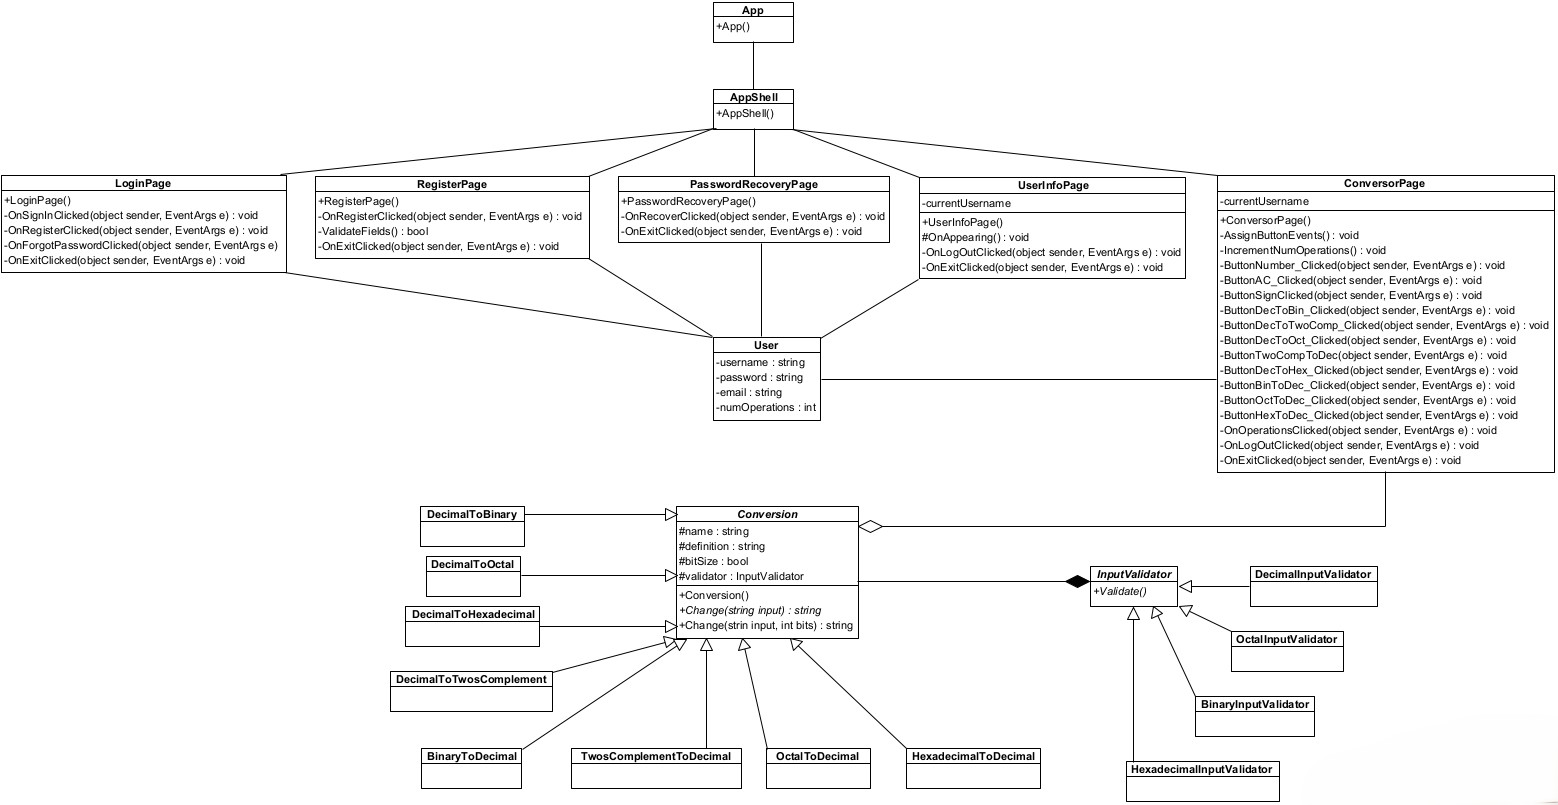
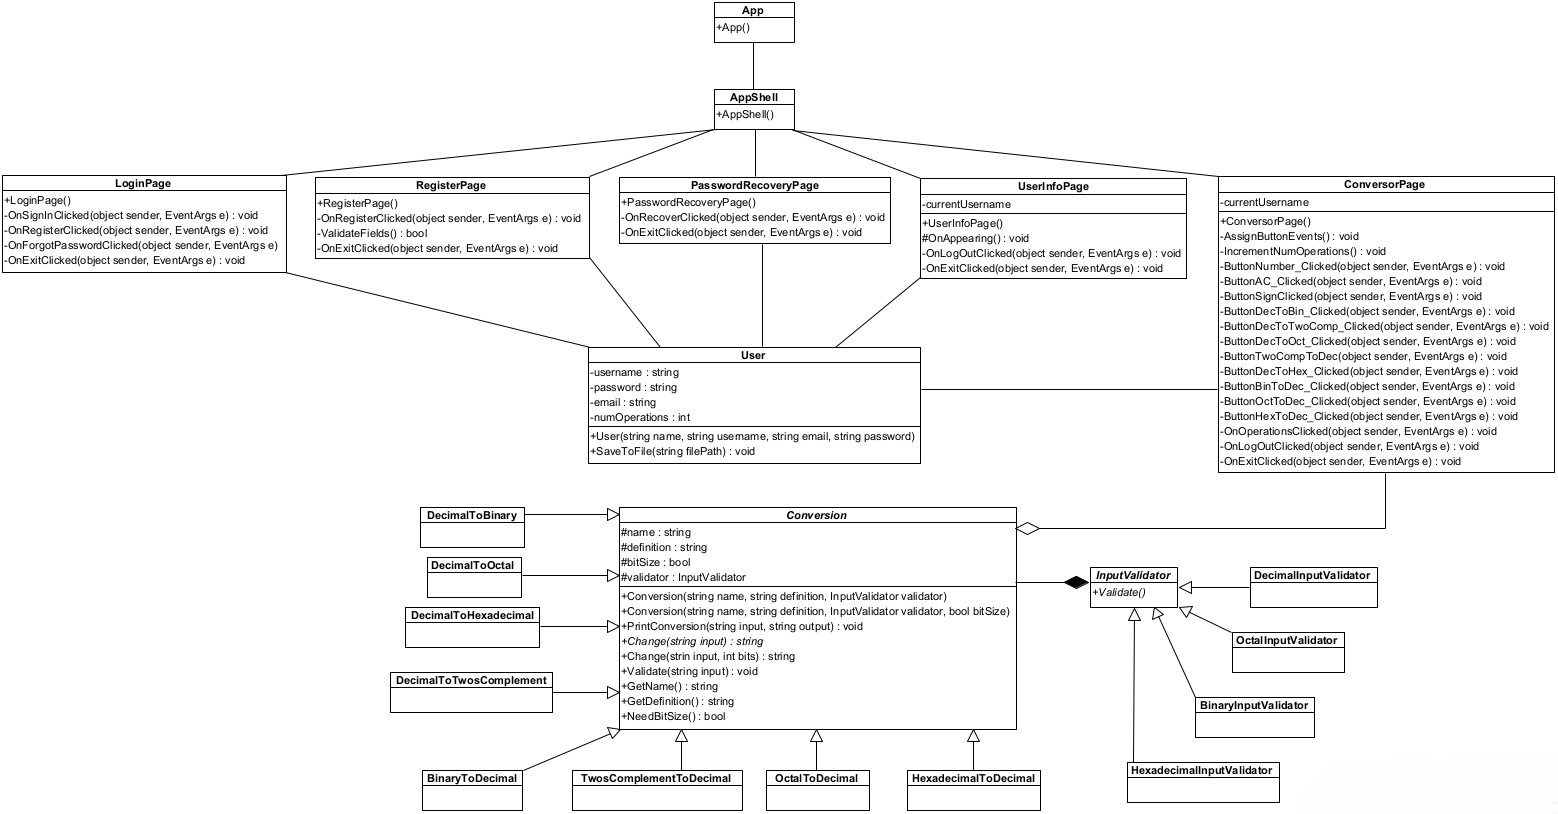
README

diff --git a/README.md b/README.md
@@ -1,5 +1,3 @@
-# oop_pw2_ext_2425
-This repository is the base structure for Practice 2 of the extraordinary session of Object-Oriented Programming.
 **UNIVERSIDAD FRANCISCO DE VITORIA**
 
 **ESCUELA POLITÉCNICA SUPERIOR**
@@ -44,60 +42,109 @@ Finally, the report concludes with a brief reflection on the development experie
 
 The application architecture is organised into three distinct layers, each with a specific responsibility:
 
-- **UI Layer:** XAML pages (`LoginPage.xaml`, `RegisterPage.xaml`, `PasswordRecoveryPage.xaml`, `ConversorPage.xaml` and `UserInfoPage.xaml`) responsible for user interaction.
-- **Logic Layer:** Implements the core functionality of the application through classes located in the `Guided_Practice` directory, along with code-behind files (`*.xaml.cs`).
-- **Persistence Layer:** CSV file (`users.csv`), which holds user credentials and operation counts.
+- **UI Layer:** 
+  This layer is responsible for all user interactions and is implemented using XAML pages (`LoginPage.xaml`, `RegisterPage.xaml`, `PasswordRecoveryPage.xaml`, `ConversorPage.xaml`, and `UserInfoPage.xaml`). Each page is paired with a code-behind file (`*.xaml.cs`) that handles UI logic, event binding, and navigation. The UI is designed to be intuitive and responsive, leveraging MAUI's cross-platform capabilities to ensure consistency across devices. The use of XAML allows for a clear separation between the visual layout and the underlying logic, making the application easier to maintain and extend.
+
+- **Logic Layer:** 
+  The core functionality of the application resides in this layer. It includes all business logic, such as number system conversions, input validation, and user operation tracking. The logic is encapsulated in classes (located in the `Guided_Practice` directory and code-behind files) that follow object-oriented principles, promoting reusability and extensibility. The use of abstract base classes and interfaces allows for easy addition of new conversion types or validators. This layer is responsible for ensuring that all operations are performed correctly and efficiently, and that the application remains robust in the face of invalid input or unexpected user actions.
+
+- **Persistence Layer:** 
+  Data persistence is managed through CSV files, primarily `users.csv`, which stores user credentials and operation counts, and `operations.csv`, which logs each conversion performed by users. File I/O operations are abstracted to ensure platform independence and to facilitate future migration to more robust storage solutions if needed. The persistence layer is designed to be efficient and reliable, ensuring that user data is always available and up-to-date.
 
 ### App's Pages
 
 * **LoginPage**\
-  ![](./README_Pictures/Login.png)
-
+  ![](./README_Pictures/Login.png)\
+  Handles user authentication by validating credentials against the persisted user data. Implements error handling for incorrect logins and provides navigation to registration and password recovery. The login process is designed to be secure and user-friendly, with clear feedback provided for common errors such as incorrect passwords or missing fields.
+  
 * **RegisterPage**\
-  ![](./README_Pictures/Register.png)
+  ![](./README_Pictures/Register.png)\
+  Facilitates new user registration, including input validation for username, email, and password. Ensures uniqueness of usernames and secure password storage. The registration process includes comprehensive validation to prevent common mistakes and ensure that all user data is valid and secure.
 
 * **PasswordRecoveryPage**\
-  ![](./README_Pictures/PasswdRecovery.png)
+  ![](./README_Pictures/PasswdRecovery.png)\
+  Allows users to reset their password by verifying their identity (e.g., via email or security questions) and updating the CSV file accordingly. Implements secure password update mechanisms, including validation of password strength and confirmation of new passwords.
 
 * **ConversorPage**\
-  ![](./README_Pictures/Conversor.png)
+  ![](./README_Pictures/Conversor.png)\
+  The main functional page where users can perform number system conversions. Integrates input validation, conversion logic, and operation tracking. Provides real-time feedback and error messages. The page includes a calculator-like interface for entering numbers and selecting conversion operations, as well as options for specifying bit size where relevant.
 
 * **UserInfoPage**\
-  ![](./README_Pictures/UserInfo.png)
+  ![](./README_Pictures/UserInfo.png)\
+  Displays the current user's profile information, including name, username, email, password (masked), and the number of conversions performed. Supports data refresh and logout functionality. The page also displays a history of all conversions performed by the user, allowing them to review their activity and track their progress.
 
 ### Class Diagram
 
 ![](./README_Pictures/PWII_Class_Diagram.jpg)
 
+- **Inheritance:**  
+  Abstract base classes such as `Conversion` and `InputValidator` define common interfaces and shared logic, while concrete subclasses implement specific behaviours for each conversion or validation type.
+
+- **Composition:**  
+  The `ConversorPage` composes instances of conversion and validator classes, delegating responsibilities as appropriate.
+
+- **Data Flow:**  
+  User actions in the UI layer trigger logic in the business layer, which may read from or write to the persistence layer as needed.
+
 ### Key Classes and Responsibilities
 
-- **ConversorPage:** Handles UI events and user input, interacts with the conversion logic, and tracks the number of user operations.
-- **Converter:** Manages the available conversion operations and delegates tasks to the appropriate conversion classes.
-- **Conversion (abstract):** Serves as the base class for all conversions. Defines shared attributes and methods such as `Change` or `Validate`.
-- **[Specific Conversion Classes]:** Includes `DecimalToBinary`, `DecimalToOctal`, `DecimalToHexadecimal`, `DecimalToTwosComplement`, `BinaryToDecimal`, `TwosComplementToDecimal`, `OctalToDecimal` and `HexadecimalToDecimal`, which implement the logic for converting between specific number systems by overriding the `Change` method.
-- **InputValidator (abstract):** Provides the base structure for validating user input across various number formats.
-- **[Specific Validator Classes]:** Includes `DecimalInputValidator`, `BinaryInputValidator`, `OctalInputValidator` and `HexadecimalInputValidator`, which implement format-specific validation logic ensuring correctness before processing the inputs.
-- **PasswordRecoveryPage:** This page is in charge of changing a user's password if they have forgotten it. It directly handles the CSV file. 
-- **UserInfo:** This page displays the current user's information (i.e. Name, Username, Email, Password and Number of Operations performed).
+- **ConversorPage:**  
+  Handles UI events and user input, interacts with the conversion logic, and tracks the number of user operations. Acts as the controller in the MVVM pattern, binding UI elements to logic. Responsible for updating the UI in response to user actions and ensuring that all conversions are performed correctly.
+
+- **Converter:**  
+  Manages the available conversion operations and delegates tasks to the appropriate conversion classes. Implements a factory or strategy pattern to select the correct conversion algorithm at runtime. This class is central to the application's extensibility, allowing new conversion types to be added with minimal changes to existing code.
+
+- **Conversion (abstract):**  
+  Serves as the base class for all conversions. Defines shared attributes and methods such as `Change` (performs the conversion) and `Validate` (ensures input correctness). Enforces a contract for all derived conversion classes, ensuring consistency and reliability across all conversion operations.
+
+- **[Specific Conversion Classes]:**  
+  Includes `DecimalToBinary`, `DecimalToOctal`, `DecimalToHexadecimal`, `DecimalToTwosComplement`, `BinaryToDecimal`, `TwosComplementToDecimal`, `OctalToDecimal`, and `HexadecimalToDecimal`. Each class overrides the `Change` method to implement the logic for converting between specific number systems, handling edge cases such as negative numbers and overflow. These classes encapsulate the core algorithms used by the application, ensuring that all conversions are accurate and efficient.
+
+- **InputValidator (abstract):**  
+  Provides the base structure for validating user input across various number formats. Defines a `ValidateInput` method to be implemented by subclasses. Ensures that all input is checked for correctness before any conversion is attempted.
+
+- **[Specific Validator Classes]:**  
+  Includes `DecimalInputValidator`, `BinaryInputValidator`, `OctalInputValidator`, and `HexadecimalInputValidator`. Each class implements format-specific validation logic, ensuring correctness before processing the inputs. Validators check for invalid characters, range violations, and format errors, providing detailed feedback to the user in case of invalid input.
+
+- **PasswordRecoveryPage:**  
+  This page is in charge of changing a user's password if they have forgotten it. It directly handles the CSV file, ensuring atomic updates and secure password handling. The page includes comprehensive validation to ensure that new passwords are strong and that users cannot reuse old passwords.
+
+- **UserInfo:**  
+  This page displays the current user's information (i.e., Name, Username, Email, Password, and Number of Operations performed). It retrieves data from the persistence layer and presents it in a user-friendly format. The page also includes a ListView control for displaying the user's operation history, allowing for efficient browsing and review of past activity.
 
 ### Design and Development Decisions
 
-- **Separation of Concerns:** The application cleanly separates the UI, logic, and data persistence layers, improving maintainability.
-- **Extensibility:** New conversions can easily be integrated by subclassing the `Conversion` class and implementing the necessary logic.
-- **Validation:** Each conversion uses a dedicated `InputValidator` to ensure correctness, encapsulated within the conversion class to maintain cohesion.
-- **User Tracking:** Each user's data and number of operations is tracked and stored persistently in a CSV file.
-- **Error Handling:** All conversion operations are wrapped in `try-catch` blocks, allowing for graceful error messages and improved user experience.
+- **Separation of Concerns:** 
+  The application cleanly separates the UI, logic, and data persistence layers, improving maintainability.
+- **Extensibility:** 
+  New conversions can easily be integrated by extending the `Conversion` class and implementing the necessary logic.
+- **Validation:** 
+  Each conversion uses a dedicated `InputValidator` to ensure correctness, encapsulated within the conversion class to maintain cohesion.
+- **Default Bit Size:** 
+  On the `ConversorPage`, certain conversion operations (specifically `DecimalToBinary` and `DecimalToTwosComplement`) require the user to specify the bit size for the output representation. To streamline the user experience and ensure consistent results, the application sets a default bit size of 8 bits in the corresponding input field. This default is only relevant for these two conversions; for all other operations, the bit size entry is ignored by the program. The implementation ensures that the bit size parameter is only passed to the conversion logic when necessary, preventing unintended behaviour in conversions that do not require it. This approach both simplifies the UI and reduces the risk of user error.
+- **User Tracking:** 
+  Each user's data and number of operations is tracked and stored persistently in a CSV file. 
+- **Operation Tracking:** 
+  When a user starts a session, all the conversions performed in said session are registered in a CSV file, so as to be able to display all the operations executed by the user in the UserInfo page. 
+- **ListView Operations Display:** 
+  The `UserInfoPage` presents all of a user's operations using a ListView control, enabling efficient vertical scrolling through the operation history while simultaneously displaying other personal information. This design enhances usability by allowing users to review their activity without navigating away from their profile data.
+- **Error Handling:** 
+  All conversion operations are wrapped in `try-catch` blocks, allowing for graceful error messages and improved user experience. In order to prevent any I/O errors, the same thing was done with the methods that required file access. 
 
 ---
 
 ## Problems
 
-- **File Access:** Managing file paths for reading and writing the CSV file across different platforms was complex due to relative path resolution issues.
-- **Input Validation:** Ensuring robust handling of various numeric formats and edge cases (e.g. negative binary values, overflow) required detailed logic and testing.
-- **UI Responsiveness:** Implementing asynchronous behaviour to keep the UI responsive during validation and processing posed difficulties (since it was the first time encountering asynchronous methods), especially avoiding UI thread blocking.
-- **Classes and methods to use:** Discerning which class was needed in order to correctly perform the conversion proved to be challenging, and finding how to implement the logic for validation took some time.
-- **PasswordRecoveryPage:** I was told later on, that this page was not mandatory, but since I had already implemented it, I left it as is. 
-- **MAUI in VSCode:** The countless errors throughout the process made this practice slightly tiring, apart from the fact that debugging the project still causes some problems, as sometimes it executes and shows the program, and others the program exits by itself. I assumed it was because of the buffer, but still didn't know how to dolve that problem. This is why debugging and running the application usually takes various tries before being able to visualize the app pages. 
+- **File Access:** 
+  At first, managing file paths for reading and writing the CSV file across different platforms was complex due to relative path resolution issues.
+- **Input Validation:** 
+  Ensuring robust handling of various numeric formats and edge cases (e.g. negative binary values, overflow) required detailed logic and testing, and also the need to find which classes and methods were needed in each case. 
+- **UI Responsiveness:** 
+  Implementing asynchronous behaviour to keep the UI responsive during validation and processing posed difficulties (since it was the first time encountering and using asynchronous methods), especially avoiding UI thread blocking.
+- **Classes and methods to use:** 
+  Discerning which method was needed in order to correctly perform the conversion proved to be challenging, and finding how to implement the logic for validation took some time, but finally found out which specific parts of the Guided Practice was needed in order to apply that functionality to this project. 
+- **MAUI in VSCode:** 
+  The countless errors throughout the process made this practice slightly tiring, especially since debugging the project often caused problems: sometimes it would execute and display the program, while other times the program would exit unexpectedly. I initially assumed this was due to buffer issues, but was unsure how to resolve it. Ultimately, I solved these problems by carefully controlling file access and refactoring the navigation logic—specifically, by avoiding navigation inside a loop and instead using a boolean value to manage flow control. As a result, debugging and running the application became much more reliable, and I was able to consistently visualize the app pages without repeated attempts.
 
 ---
 
